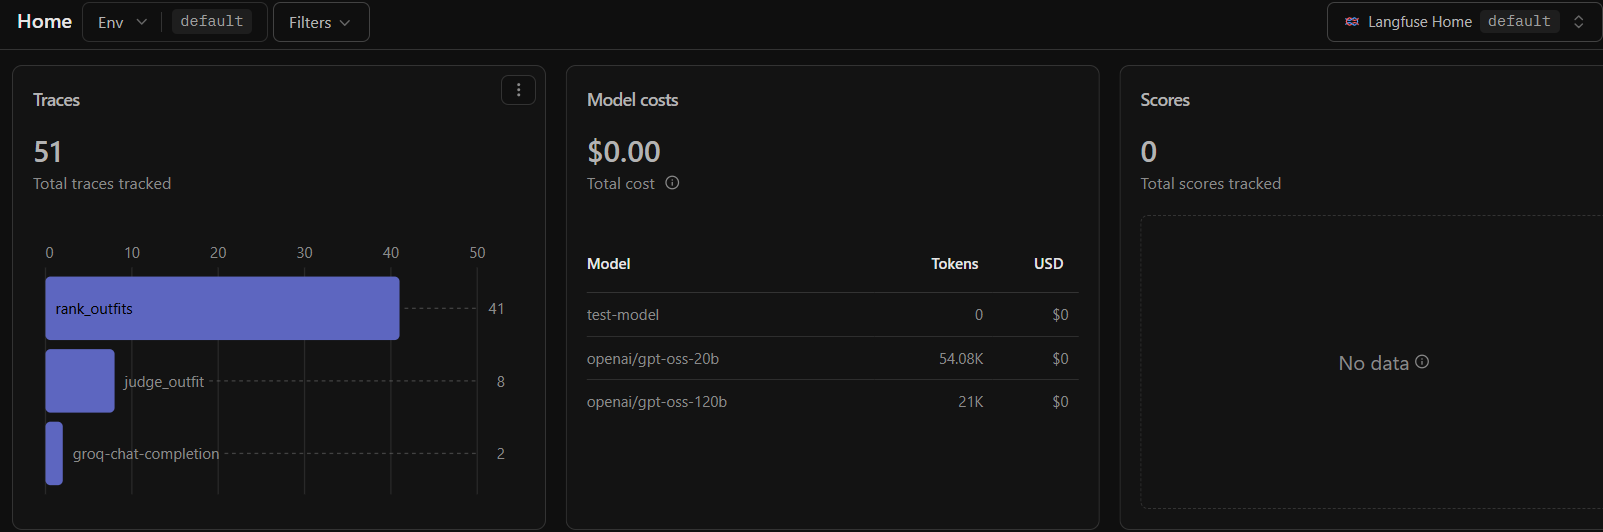
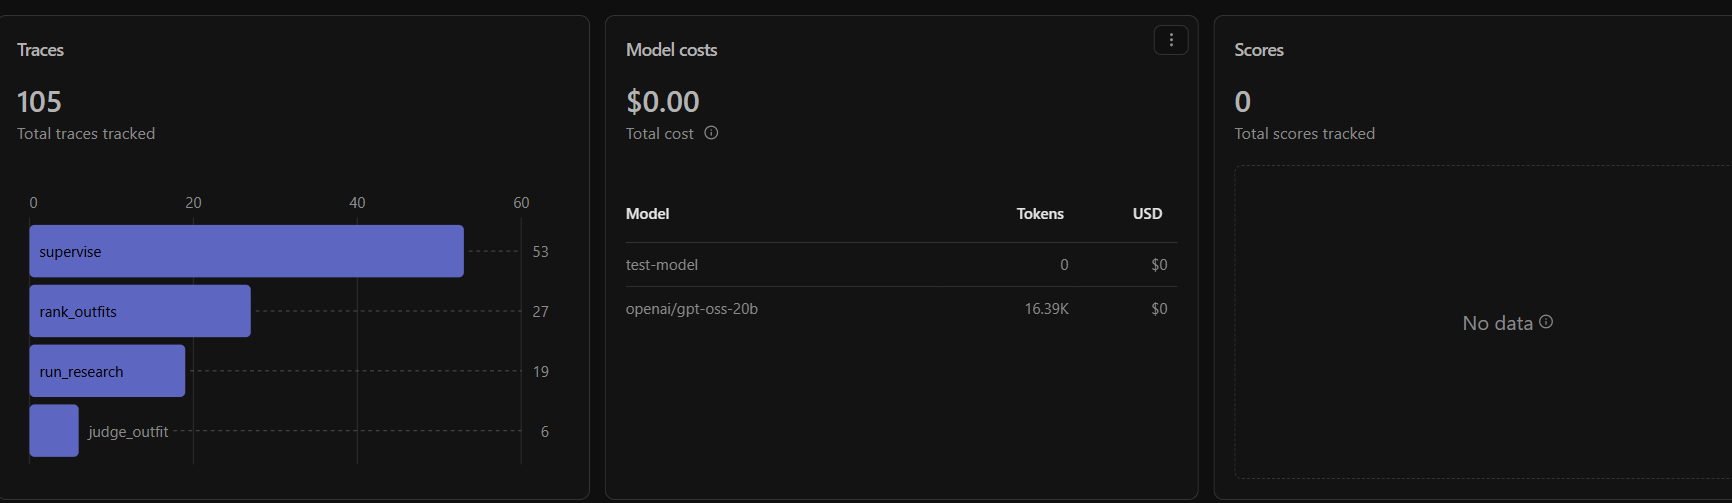
docs: mark Stage 4 done-when met and refresh observability
Record the live demonstration that satisfies the Stage 4 done-when: the Royal Enclosure at Royal Ascot routes to research, the Wikipedia dress-code passage is distilled into a formal-daywear constraint with provenance, and the stylist cites it in the ranking. Correct the final routing accuracy to 97% and drop the stale Portfolio Story section.

Refresh the README observability section with the current Langfuse dashboard (105 traces across supervise, rank_outfits, run_research and judge_outfit at zero cost) and add a usage-over-time view (16.39K tokens, zero cost).

diff --git a/roadmap.md b/roadmap.md
@@ -134,9 +134,9 @@ Deferred to Stage 4: time-aware weather (future-dated forecasts and time-of-day 
 - [x] Search results summarized into styling-relevant constraints (inferred formality, a short constraint summary, source title and URL).
 - [x] Supervisor decides when research is needed (closetgraph/supervisor.py): hybrid routing with a deterministic conservative skip and an LLM classifier for ambiguity, first conditional branch in the graph.
 - [x] Sourced context feeds into Stylist and final ranking; research informs the ranking and the explanation but never overrides owned-wardrobe or the occasion.
-- [x] Evaluation: supervisor routing benchmark (29 labeled cases, set independently) evaluated in isolation with decision accuracy and reason quality reported separately; stylist-with-research scenarios (with vs without a verified constraint, plus irrelevant-research and research-failure cases). Routing accuracy improved 72% -> 90% by inspecting failures and fixing the classifier, not the labels.
+- [x] Evaluation: supervisor routing benchmark (29 labeled cases, set independently) evaluated in isolation with decision accuracy and reason quality reported separately; stylist-with-research scenarios (with vs without a verified constraint, plus irrelevant-research and research-failure cases). Routing accuracy improved 72% -> 97% by inspecting failures and fixing the classifier, not the labels.
 
-**Done when:** the system can explain why it interpreted an ambiguous occasion a certain way, using external context when appropriate. (Mechanism in place; final live demonstration pending.)
+**Done when:** the system can explain why it interpreted an ambiguous occasion a certain way, using external context when appropriate. (Met: "the Royal Enclosure at Royal Ascot" is routed to research, the Wikipedia dress-code passage is distilled into a formal-daywear constraint with provenance, and the stylist cites it in the ranking.)
 
 Deferred (next, as its own increment): time-aware weather (future-dated forecasts and time-of-day windows) and natural-language date/location extraction.
 
@@ -192,18 +192,3 @@ Deferred (next, as its own increment): time-aware weather (future-dated forecast
 - [x] Deterministic validation checks.
 - [x] Stylist output format.
 - [x] First manual evaluation examples.
-
-## Portfolio Story
-
-The final project should show:
-
-- persistent personal wardrobe memory
-- LangGraph orchestration
-- justified multi-agent decomposition
-- retrieval-grounded styling intelligence
-- compositional outfit reasoning
-- explicit evaluation of subjective recommendations
-- free or local model strategy with Groq and Ollama
-- staged growth from notebook prototype to deployable app
-
-The strongest demo will show ClosetGraph handling a nuanced outfit decision where individual item labels are insufficient, then explaining why the top-ranked outfit works as a complete composition.

diff --git a/README.md b/README.md
@@ -99,9 +99,13 @@ Methodology, metrics, the 20B-vs-120B model comparison, routing eval versions, a
 
 ### Observability
 
-Every model call is traced to Langfuse (free tier, zero cost):
+Every model call is traced to Langfuse (free tier, zero cost). Traces break down by component (supervise, rank_outfits, run_research, judge_outfit), so a recommendation can be inspected end to end:
 
-![Langfuse dashboard showing traced runs at $0 cost](docs/langfuse-dashboard.png)
+![Langfuse dashboard: 105 traced runs across supervise, rank_outfits, run_research and judge_outfit at $0 total cost](docs/langfuse-dashboard.png)
+
+Observations and token usage over time confirm the zero-cost footprint (16.39K tokens on gpt-oss-20b, $0):
+
+![Langfuse observations by time and model usage, 16.39K tokens at zero cost](docs/langfuse-usage.png)
 
 ---
 
